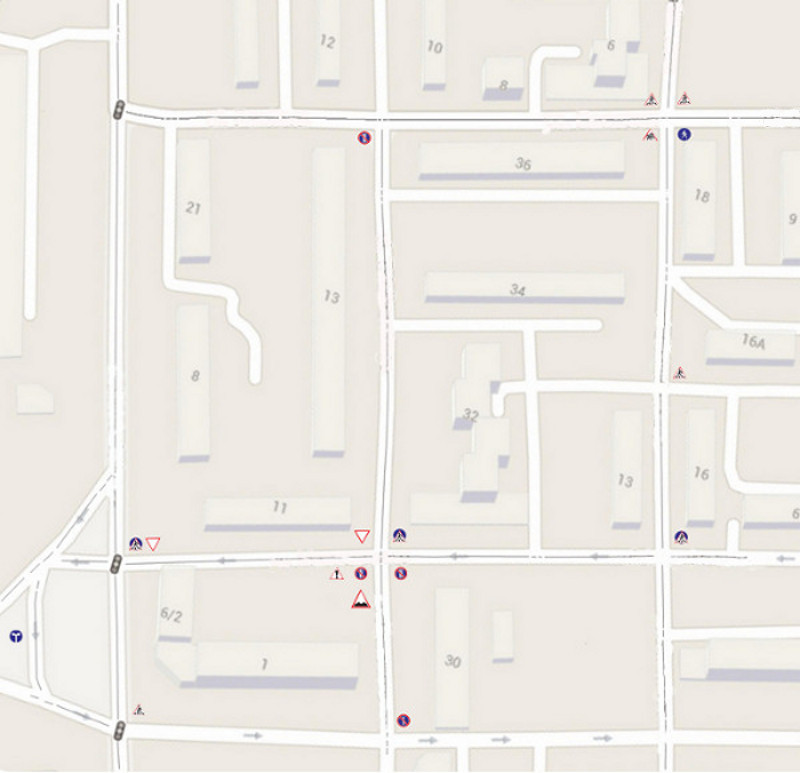
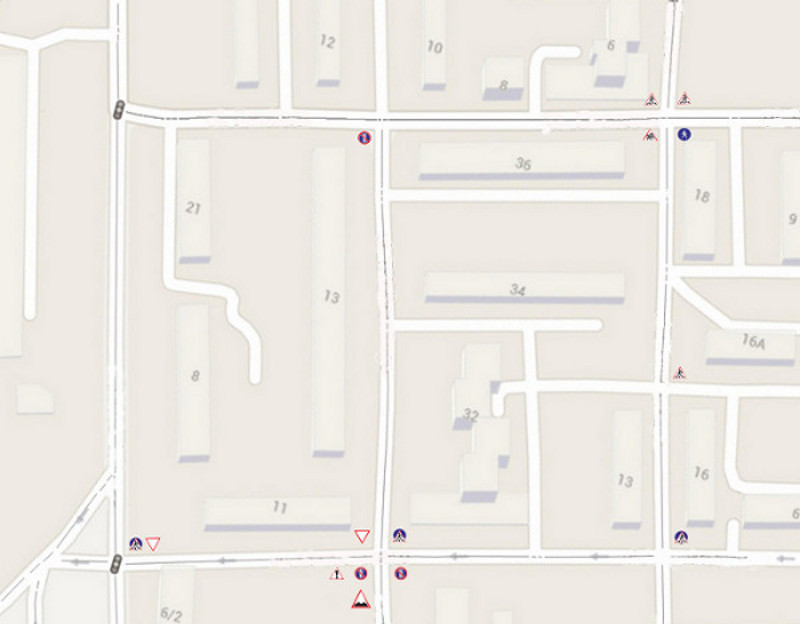
карты

diff --git a/transport_model/src/machines/MainFrame.java b/transport_model/src/machines/MainFrame.java
@@ -64,7 +64,7 @@ public class MainFrame extends JFrame{
 			loadMap.addActionListener(new ActionListener() {
 	            public void actionPerformed(ActionEvent e){
 				
-	            	JDialog choiceMap=new JDialog();
+	            	final JDialog choiceMap=new JDialog();
 	            	//choiceMap.setBounds(100, 100, 450, 300);
 	            	choiceMap.setVisible(true);
 	            	choiceMap.setSize(500,200);
@@ -100,6 +100,25 @@ public class MainFrame extends JFrame{
 			    		@Override
 			    		public void actionPerformed(ActionEvent ev){
 			    			MapPanel.ImageFile="img/map1.jpg";
+			    			choiceMap.setVisible(false);
+			    		}
+
+			    	});
+			    	
+			    	map2.addActionListener(new ActionListener(){
+			    		@Override
+			    		public void actionPerformed(ActionEvent ev){
+			    			MapPanel.ImageFile="img/map2.jpg";
+			    			choiceMap.setVisible(false);
+			    		}
+
+			    	});
+			    	
+			    	map3.addActionListener(new ActionListener(){
+			    		@Override
+			    		public void actionPerformed(ActionEvent ev){
+			    			MapPanel.ImageFile="img/map3.jpg";
+			    			choiceMap.setVisible(false);
 			    		}
 
 			    	});

diff --git a/transport_model/src/machines/MapPanel.java b/transport_model/src/machines/MapPanel.java
@@ -19,7 +19,7 @@ import javax.swing.*;
 				Image image = imageicon.getImage();
 				
 					super.paintComponent(g);
-			        g.drawImage(image, 0, 0, this);
+			        g.drawImage(image, 50, 50, this);
 			    
 				}
 	}	    
